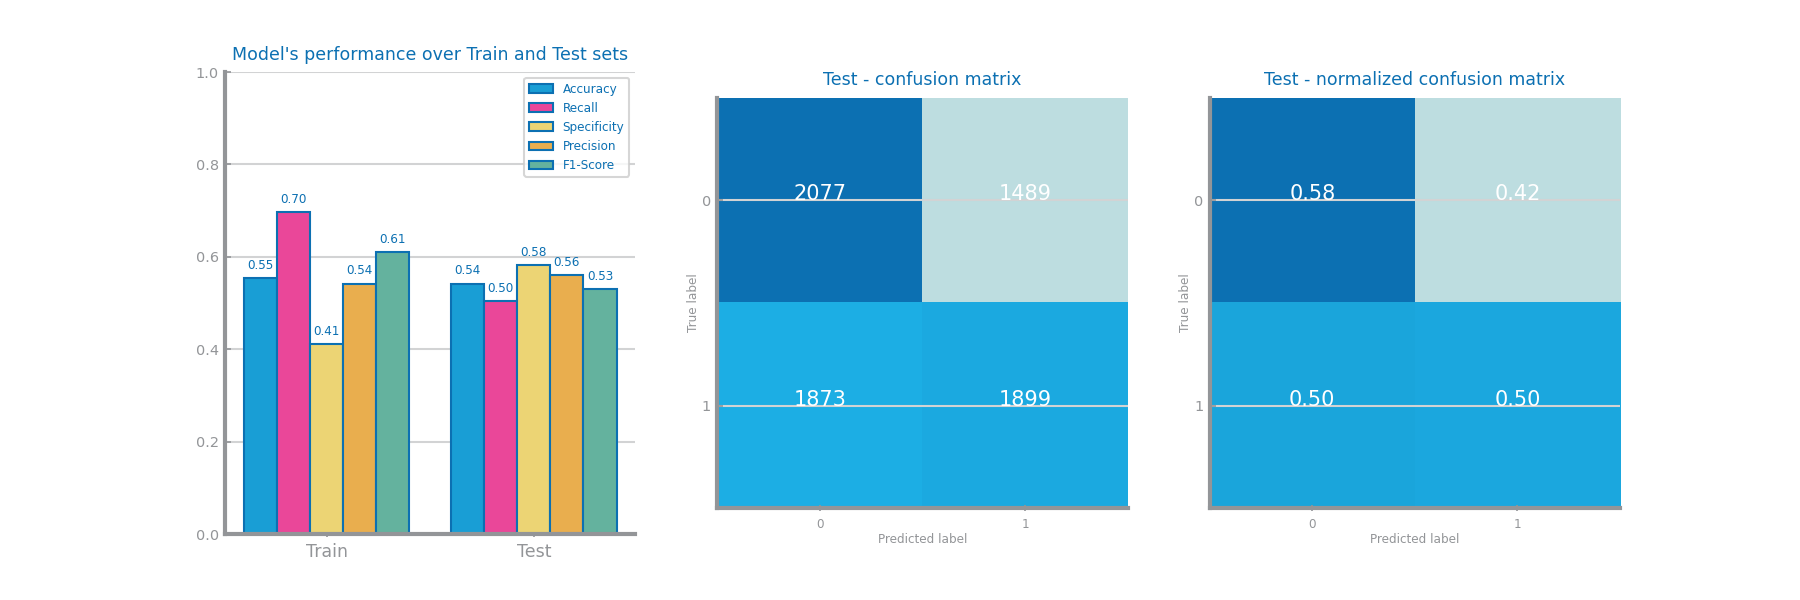
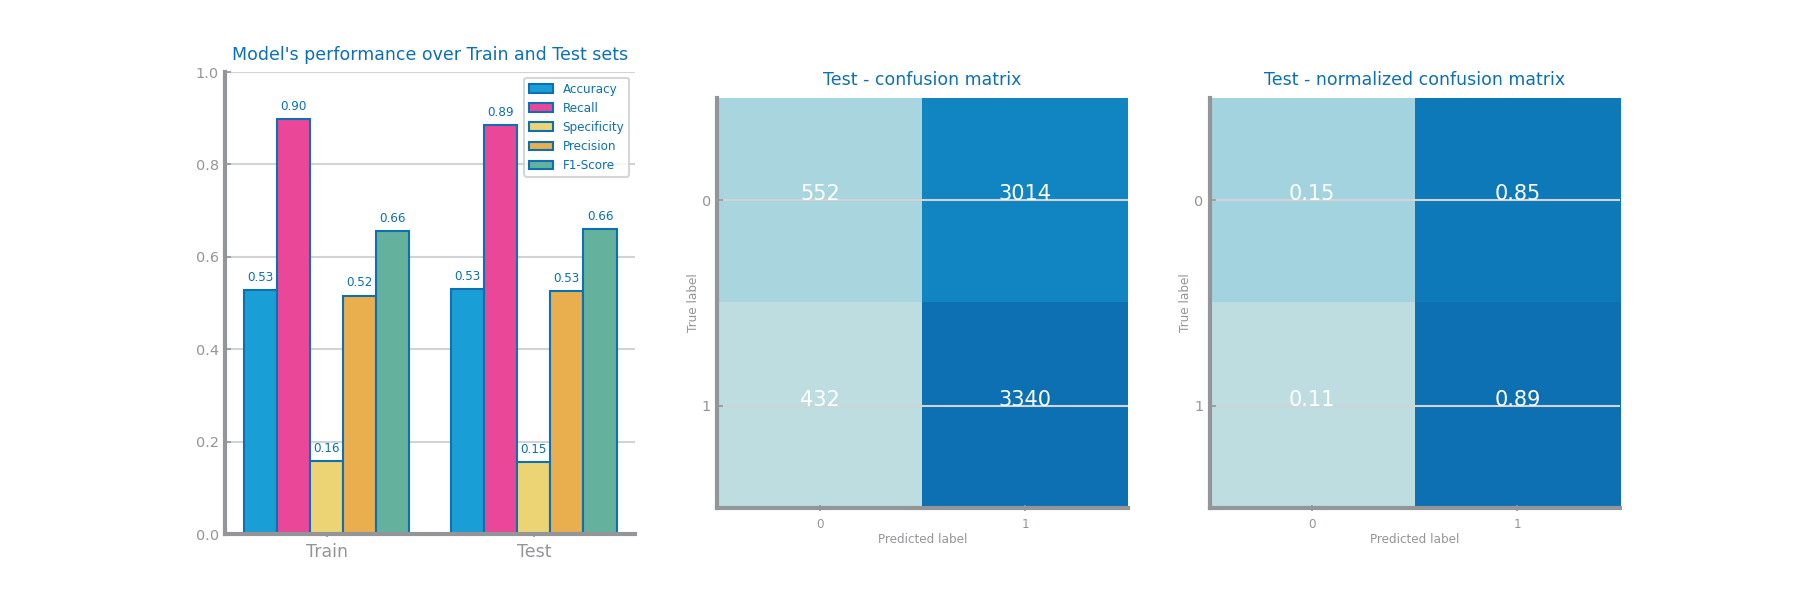
Fixed Naive Bayses explore all

diff --git a/climate/src/evaluation/nb_classifier.py b/climate/src/evaluation/nb_classifier.py
@@ -1,12 +1,14 @@
 import pandas as pd
 from sklearn.naive_bayes import GaussianNB, MultinomialNB, BernoulliNB, CategoricalNB, ComplementNB
-from sklearn.metrics import accuracy_score, classification_report
+from sklearn.metrics import accuracy_score, classification_report, f1_score
 from numpy import ndarray
 from pandas import unique
-from matplotlib.pyplot import figure, savefig, show
+from matplotlib.pyplot import figure, savefig, show, subplots
 from ds_charts import plot_evaluation_results, bar_chart
 import math
 import numpy as np
+
+HEIGHT: int = 4
 
 
 class NBClassifier:
@@ -35,7 +37,7 @@ class NBClassifier:
     tstY: ndarray = self.data_test.pop(self.target).values
     tstX: ndarray = self.data_test.values
 
-    clf = GaussianNB()
+    clf = BernoulliNB()
     clf.fit(trnX, trnY)
     prd_trn = clf.predict(trnX)
     prd_tst = clf.predict(tstX)
@@ -71,17 +73,19 @@ class NBClassifier:
     tstX: ndarray = self.data_test.values
 
     xvalues = []
-    yvalues = []
+    yvalues_acc_score = []
+    yvalues_f1_score = []
 
     for clf in self.estimators:
         xvalues.append(clf)
         self.estimators[clf].fit(trnX, trnY)
         prdY = self.estimators[clf].predict(tstX)
-        yvalues.append(accuracy_score(tstY, prdY))
+        yvalues_acc_score.append(accuracy_score(tstY, prdY))
+        yvalues_f1_score.append(f1_score(tstY, prdY))
 
-    figure()
-    bar_chart(xvalues, yvalues, title='Comparison of Naive Bayes Models', ylabel='accuracy', percentage=True)
+    _, axs = subplots(1, 2, figsize=(2 * HEIGHT, HEIGHT))
+    bar_chart(xvalues, yvalues_acc_score, ax=axs[0], title='Comparison of Naive Bayes Models', ylabel='accuracy', percentage=True)
+    bar_chart(xvalues, yvalues_f1_score, ax=axs[1], title='Comparison of Naive Bayes Models', ylabel='f1_score', percentage=True)
     savefig('climate/records/evaluation/nb_study.png')
-    show()
 
 

diff --git a/health/src/evaluation/nb_classifier.py b/health/src/evaluation/nb_classifier.py
@@ -1,9 +1,9 @@
 import pandas as pd
 from sklearn.naive_bayes import GaussianNB, MultinomialNB, BernoulliNB, CategoricalNB, ComplementNB
-from sklearn.metrics import accuracy_score, classification_report
+from sklearn.metrics import accuracy_score, classification_report, f1_score
 from numpy import ndarray
 from pandas import DataFrame, unique
-from matplotlib.pyplot import figure, savefig, show
+from matplotlib.pyplot import figure, savefig, show, subplots
 from ds_charts import plot_evaluation_results_2, bar_chart
 import math
 import numpy as np
@@ -16,6 +16,8 @@ estimators = {'GaussianNB': GaussianNB(),
               # 'CategoricalNB': CategoricalNB()
               # 'ComplementNB': ComplementNB(),
               }
+
+HEIGHT: int = 4
 
 class NBClassifier:
   
@@ -83,17 +85,19 @@ class NBClassifier:
     tstX: ndarray = self.data_test.values
 
     xvalues = []
-    yvalues = []
+    yvalues_acc_score = []
+    yvalues_f1_score = []
 
     for clf in estimators:
         xvalues.append(clf)
         estimators[clf].fit(trnX, trnY)
         prdY = estimators[clf].predict(tstX)
-        yvalues.append(accuracy_score(tstY, prdY))
+        yvalues_acc_score.append(accuracy_score(tstY, prdY))
+        yvalues_f1_score.append(f1_score(tstY, prdY, average="macro"))
 
-    figure()
-    bar_chart(xvalues, yvalues, title='Comparison of Naive Bayes Models', ylabel='accuracy', percentage=True)
-    savefig(f'health/records/evaluation/nb_study.png')
-    show()
+    _, axs = subplots(1, 2, figsize=(2 * HEIGHT, HEIGHT))
+    bar_chart(xvalues, yvalues_acc_score, ax=axs[0], title='Comparison of Naive Bayes Models', ylabel='accuracy', percentage=True)
+    bar_chart(xvalues, yvalues_f1_score, ax=axs[1], title='Comparison of Naive Bayes Models', ylabel='f1_score', percentage=True)
+    savefig('health/records/evaluation/nb_study.png')
 
 

diff --git a/health/src/main.py b/health/src/main.py
@@ -100,10 +100,10 @@ if __name__ == "__main__":
   data_train = read_csv(PREPARATION_OUT_FILE_PATH_TRAIN, na_values='na')
   data_test = read_csv(PREPARATION_OUT_FILE_PATH_TEST, na_values='na')
 
-  # nbClassifier = NBClassifier(data_train, data_test)
-  # nbClassifier.explore_best_nb_value()
+  nbClassifier = NBClassifier(data_train, data_test)
+  nbClassifier.explore_best_nb_value()
   # # nbClassifier.compute_nb_best_results()
 
-  knn_class = Knn_classifier(data_train, data_test)
-  k, approach = knn_class.explore_best_k_value()
-  knn_class.compute_knn_best_results(k , approach)
+  # knn_class = Knn_classifier(data_train, data_test)
+  # k, approach = knn_class.explore_best_k_value()
+  # knn_class.compute_knn_best_results(k , approach)

diff --git a/climate/src/main.py b/climate/src/main.py
@@ -63,10 +63,10 @@ if __name__ == "__main__":
   data_train = read_csv(PREPARATION_OUT_FILE_PATH_TRAIN, na_values='na')
   data_test = read_csv(PREPARATION_OUT_FILE_PATH_TEST, na_values='na')
 
-  # nbClassifier = NBClassifier(data_train, data_test)
+  nbClassifier = NBClassifier(data_train, data_test)
   # nbClassifier.explore_best_nb_value()
-  # nbClassifier.compute_nb_best_results()
+  nbClassifier.compute_nb_best_results()
 
-  knn_class = Knn_classifier(data_train, data_test)
-  k, approach = knn_class.explore_best_k_value()
-  knn_class.compute_knn_best_results(k , approach)
+  # knn_class = Knn_classifier(data_train, data_test)
+  # k, approach = knn_class.explore_best_k_value()
+  # knn_class.compute_knn_best_results(k , approach)
